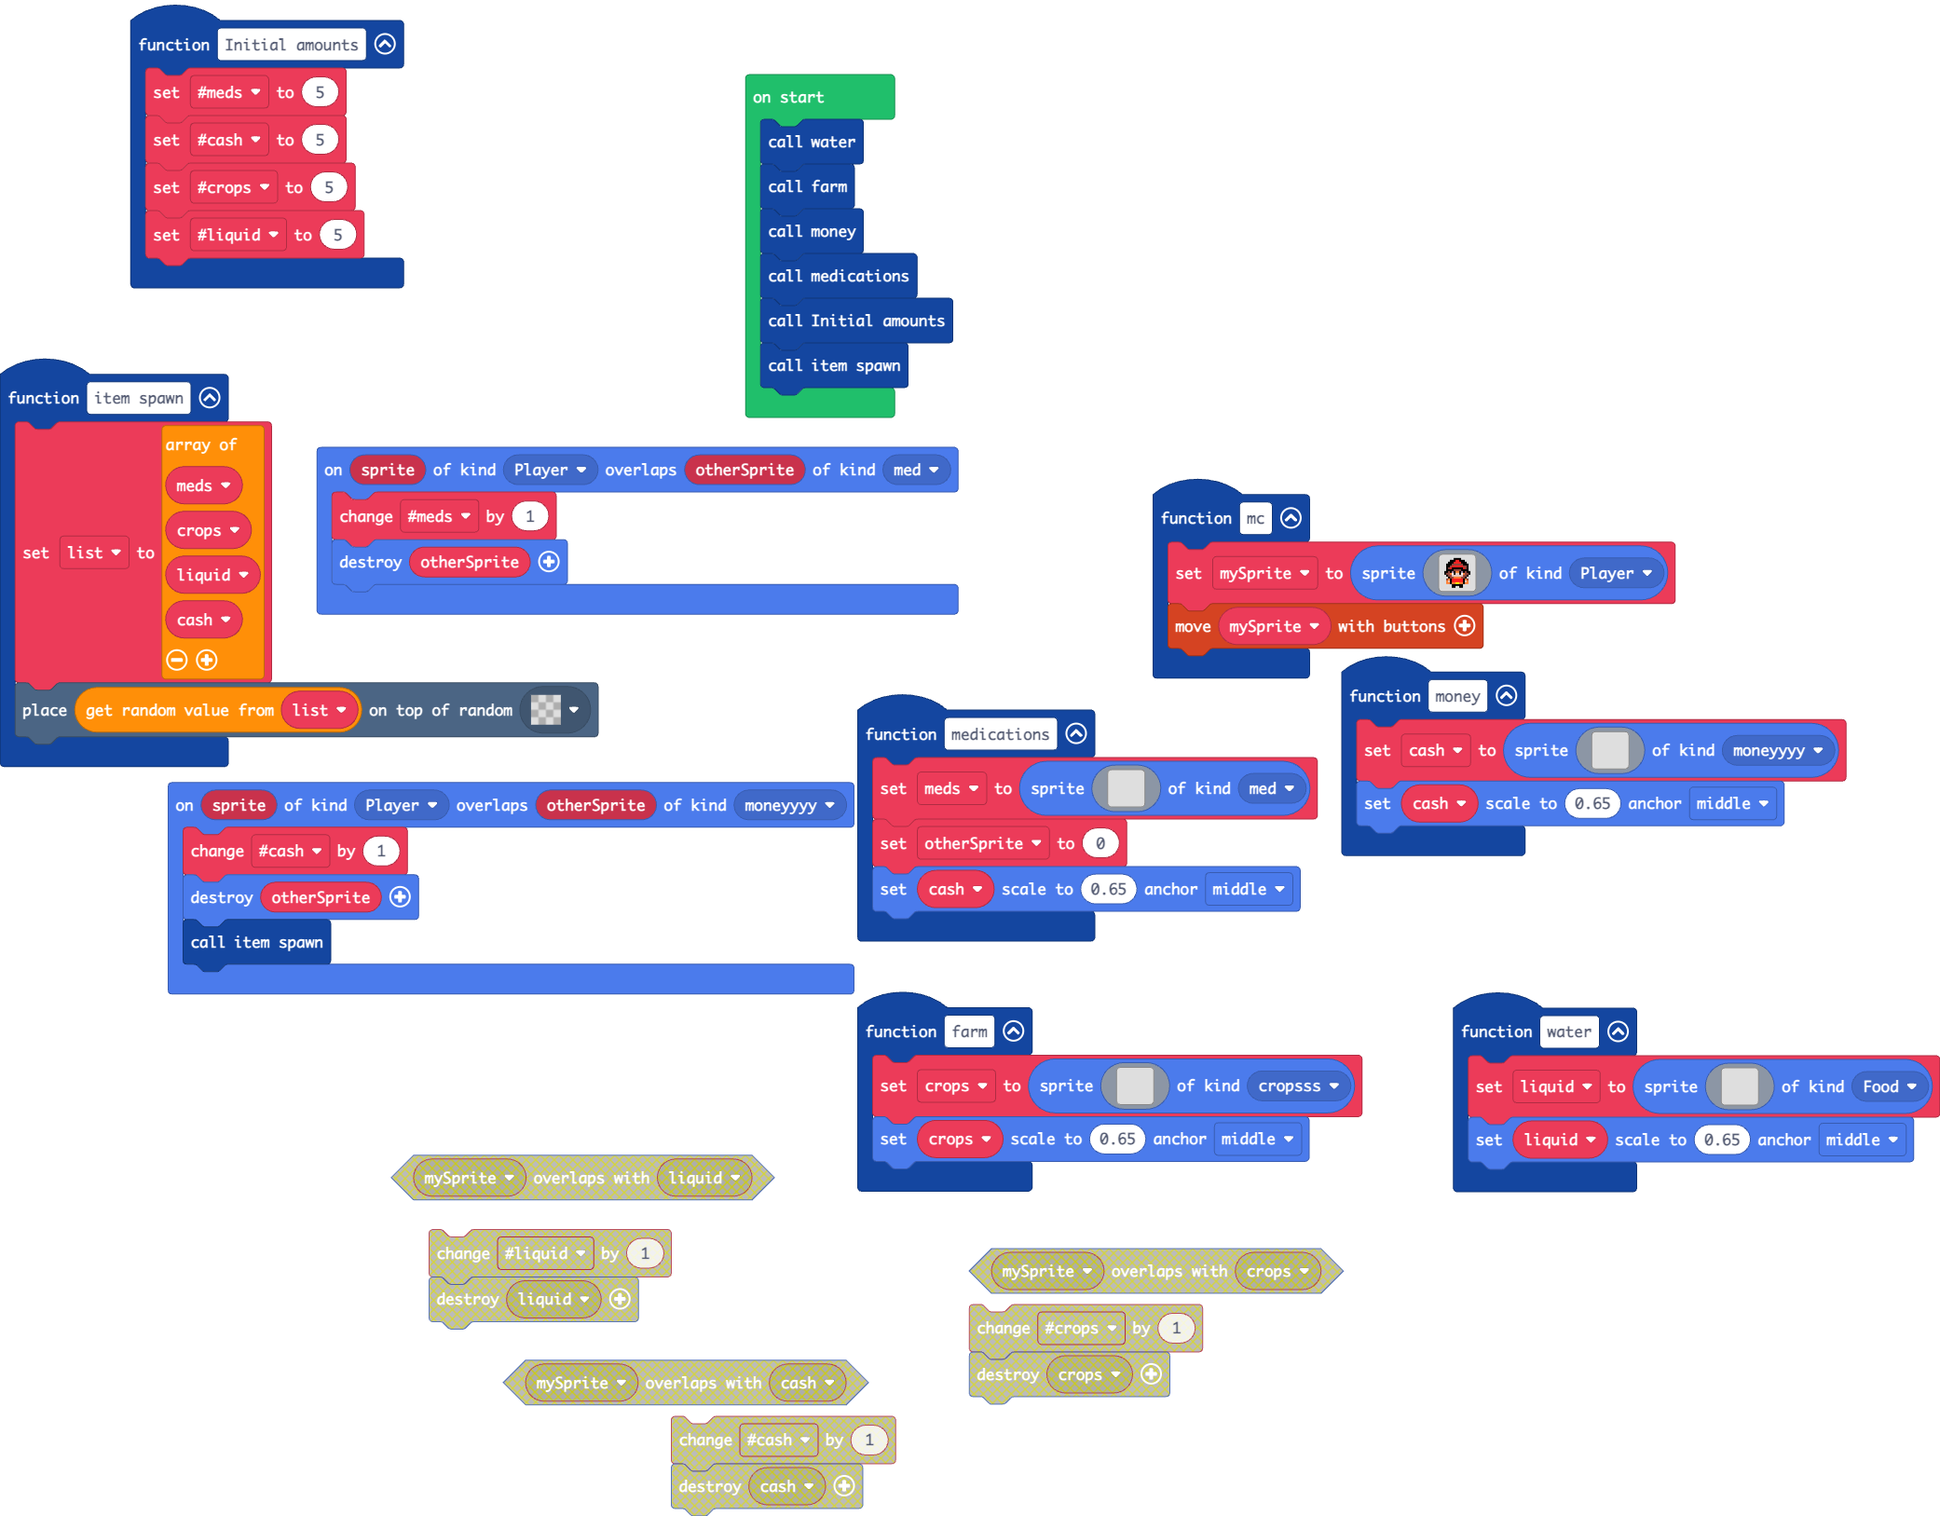
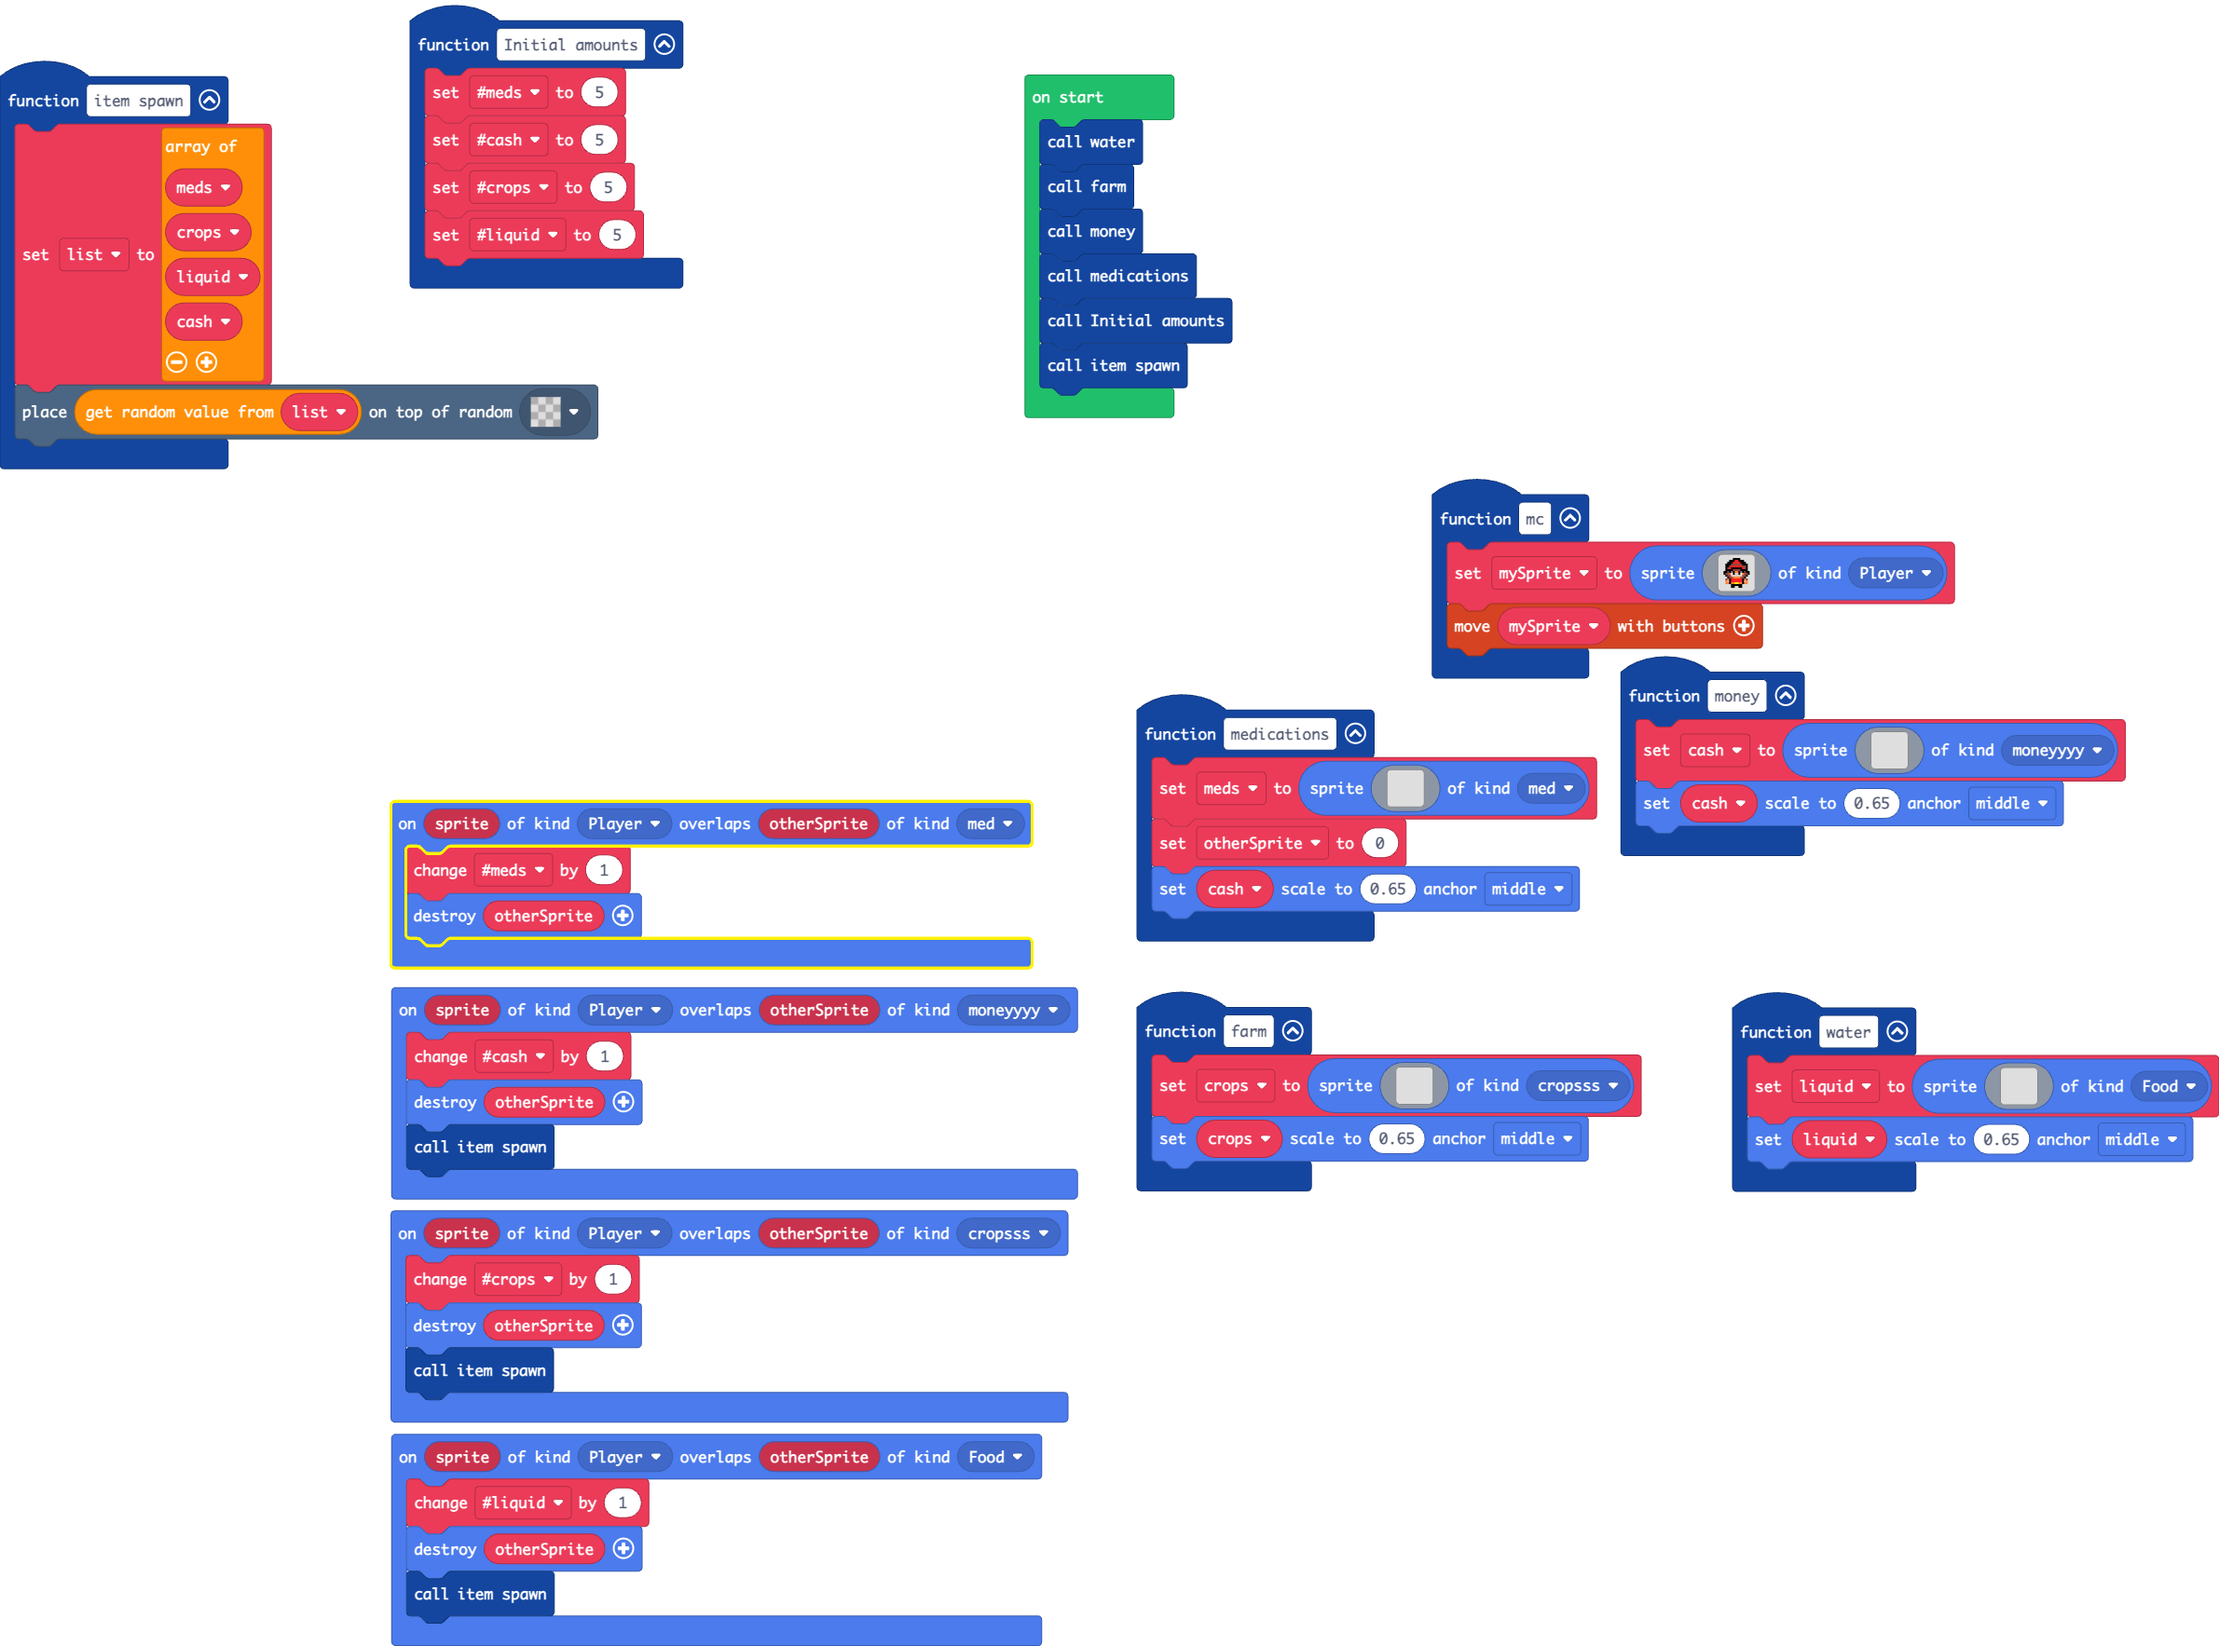
Update main.blocks, main.ts

diff --git a/main.ts b/main.ts
@@ -55,6 +55,11 @@ sprites.onOverlap(SpriteKind.Player, SpriteKind.moneyyyy, function (sprite, othe
     sprites.destroy(otherSprite)
     item_spawn()
 })
+sprites.onOverlap(SpriteKind.Player, SpriteKind.cropsss, function (sprite, otherSprite) {
+    crops += 1
+    sprites.destroy(otherSprite)
+    item_spawn()
+})
 function water () {
     liquid = sprites.create(img`
         . . . . . . . . . . . . . . . . 
@@ -124,6 +129,11 @@ function farm () {
         `, SpriteKind.cropsss)
     crops2.setScale(0.65, ScaleAnchor.Middle)
 }
+sprites.onOverlap(SpriteKind.Player, SpriteKind.Food, function (sprite, otherSprite) {
+    liquid2 += 1
+    sprites.destroy(otherSprite)
+    item_spawn()
+})
 function item_spawn () {
     list = [
     meds,
@@ -136,8 +146,8 @@ function item_spawn () {
 let list: Sprite[] = []
 let crops2: Sprite = null
 let liquid2 = 0
-let crops = 0
 let liquid: Sprite = null
+let crops = 0
 let cash2 = 0
 let meds2 = 0
 let cash: Sprite = null
